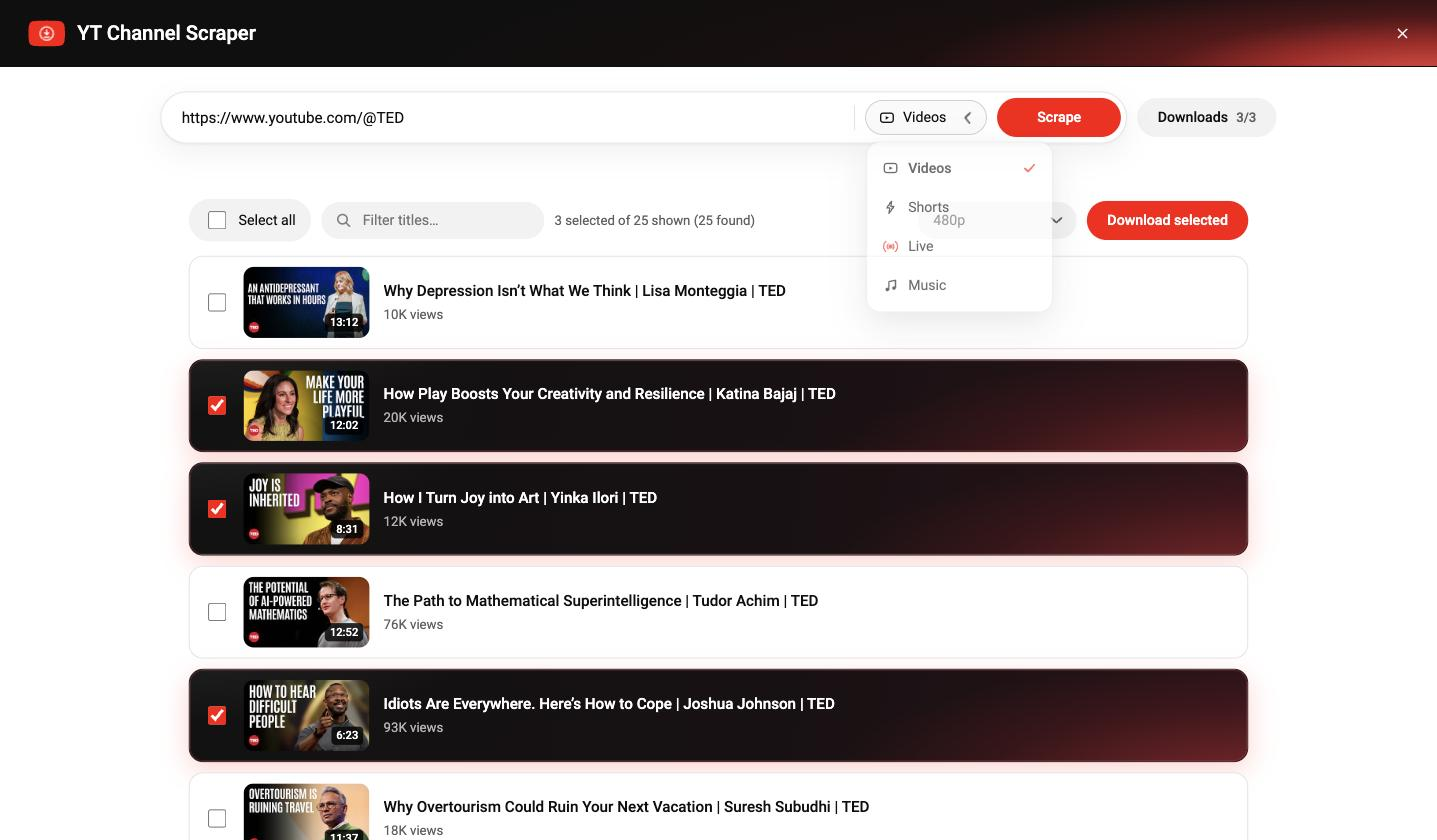
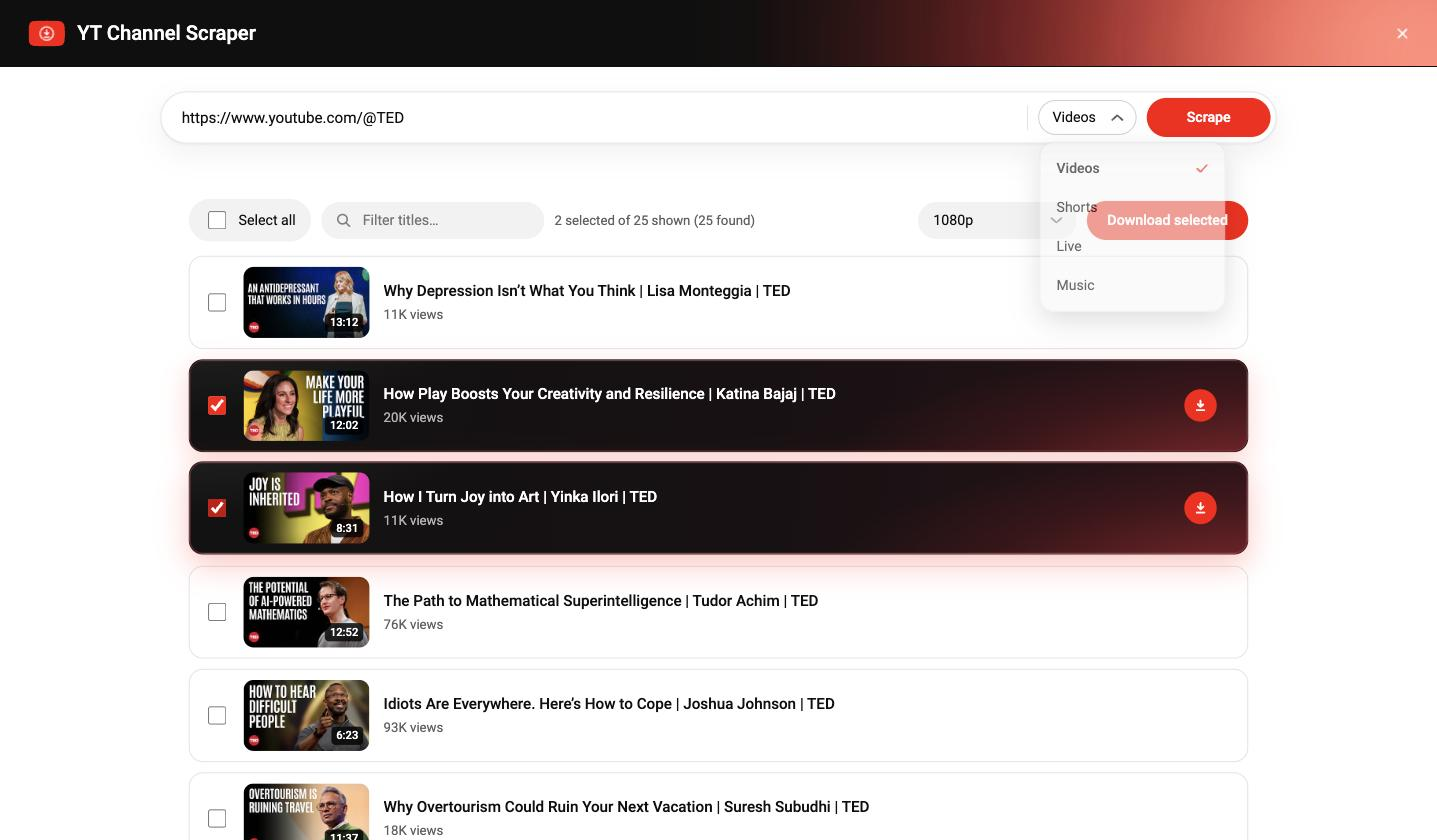
Round the search bar back off; document the type drawer
The bar, type pill and Scrape go back to full pill radii after the squared-off
pass — the drawer panel and its options soften to match. README picks up the
click-and-slide: a step in "Use it", a note in "How it works", and a fresh
04-tabs shot catching the drawer between closed and open.

diff --git a/templates/index.html b/templates/index.html
@@ -215,7 +215,7 @@
      browser widgets: borderless input, hairline separators, controls as chips. */
   .searchbar {
     display: flex; align-items: center; gap: 10px; flex: 1; min-width: 340px;
-    background: rgba(255,255,255,.86); border: 1px solid var(--line); border-radius: 12px;
+    background: rgba(255,255,255,.86); border: 1px solid var(--line); border-radius: 999px;
     backdrop-filter: blur(14px) saturate(140%); -webkit-backdrop-filter: blur(14px) saturate(140%);
     padding: 5px 5px 5px 20px;
     box-shadow: 0 1px 2px rgba(15,15,15,.05), 0 10px 28px rgba(15,15,15,.06);
@@ -251,7 +251,7 @@
   .dd { position: relative; }
   .dd-btn {
     display: flex; align-items: center; gap: 8px; background: #f2f2f2; color: var(--fg);
-    border: 1px solid transparent; border-radius: 8px; padding: 8px 12px 8px 13px;
+    border: 1px solid transparent; border-radius: 999px; padding: 8px 12px 8px 13px;
     font-size: 14px; font-weight: 400; cursor: pointer;
   }
   .dd-btn:hover { background: #e9e9e9; }
@@ -268,7 +268,7 @@
   .dd { position: relative; }
   .dd-btn {
     display: flex; align-items: center; gap: 8px; background: #f2f2f2; color: var(--fg);
-    border: 1px solid transparent; border-radius: 8px; padding: 8px 12px 8px 13px;
+    border: 1px solid transparent; border-radius: 999px; padding: 8px 12px 8px 13px;
     font-size: 14px; font-weight: 400; cursor: pointer;
   }
   .dd-btn:hover { background: #e9e9e9; }
@@ -284,13 +284,13 @@
     background: rgba(246,246,246,.88);
     backdrop-filter: blur(16px) saturate(150%); -webkit-backdrop-filter: blur(16px) saturate(150%);
     border: 1px solid rgba(15,15,15,.08);
-    border-radius: 12px; box-shadow: 0 10px 28px rgba(15,15,15,.22);
+    border-radius: 14px; box-shadow: 0 10px 28px rgba(15,15,15,.22);
     opacity: 0; transform: translateY(-6px) scale(.98); pointer-events: none;
     transition: opacity .16s ease, transform .16s ease;
   }
   .dd.open .dd-menu { opacity: 1; transform: none; pointer-events: auto; }
   .dd-menu li {
-    display: flex; align-items: center; gap: 10px; padding: 9px 10px; border-radius: 7px;
+    display: flex; align-items: center; gap: 10px; padding: 9px 10px; border-radius: 9px;
     font-size: 14px; cursor: pointer;
   }
   .dd-menu li:hover { background: rgba(15,15,15,.06); }
@@ -314,7 +314,7 @@
   button:disabled { opacity: .5; cursor: default; }
   /* Scrape is the primary action: picks up a red glow and a slight lift on hover. */
   /* Fixed width so swapping the label to "Scraping…" doesn't resize the bar. */
-  #scrape { min-width: 122px; text-align: center; border-radius: 8px; }
+  #scrape { min-width: 122px; text-align: center; }
   #scrape:hover:not(:disabled), #dl:hover:not(:disabled) {
     box-shadow: 0 3px 22px rgba(255,0,0,.55); transform: translateY(-1px);
   }

diff --git a/README.md b/README.md
@@ -52,7 +52,8 @@ cd yt-channel-scrapper
 ## Use it
 
 1. Paste a channel URL — `https://www.youtube.com/@channelname`, a bare `@handle`, or a playlist URL.
-2. Pick the type: **Videos**, **Shorts**, **Live** or **Music**.
+2. Pick the type: **Videos**, **Shorts**, **Live** or **Music**. Click the type pill and the menu
+   slides out from under the search bar; click an option and it slides back with the pill relabelled.
 3. **Scrape.** Results stream in; **Load 25 more** pulls the next page.
 4. Tick what you want (filter by title, or **Select all**), choose a quality, **Download selected**.
 5. Progress appears in the Downloads panel. Finished files land in `downloads/`, named
@@ -60,7 +61,10 @@ cd yt-channel-scrapper
 
 <img src="docs/03-downloads.jpg" alt="Downloads modal" width="820">
 
-<img src="docs/04-tabs.jpg" alt="Channel type dropdown" width="820">
+<img src="docs/04-tabs.jpg" alt="The type drawer mid-slide, caught between closed and open" width="820">
+
+<sub>The type drawer caught mid-slide — it fades and glides down from under the search bar rather than
+appearing all at once.</sub>
 
 ## How it works
 
@@ -75,6 +79,9 @@ cd yt-channel-scrapper
   each reporting 0–100% of its own file, which would fill the bar twice. Each job probes once to
   read `requested_formats`, then reports bytes against the combined total, so it fills once.
 - **Retries**: every job re-extracts and retries up to 3 times with a backoff.
+- **The type drawer** is a custom control, not a `<select>`, so it can animate: clicking the pill
+  slides the menu down from under the search bar over ~0.16s while it fades in, and the chevron
+  flips. The label sits in a fixed-width slot so the pill doesn't resize as you change the selection.
 - **Downloads panel** shows as a centred modal over the results list, and as a bottom
   drawer on the landing page where there's no list behind it to sit over.
 - **Remove one job** by dragging its ring to the left, which swaps it for a clear button.
